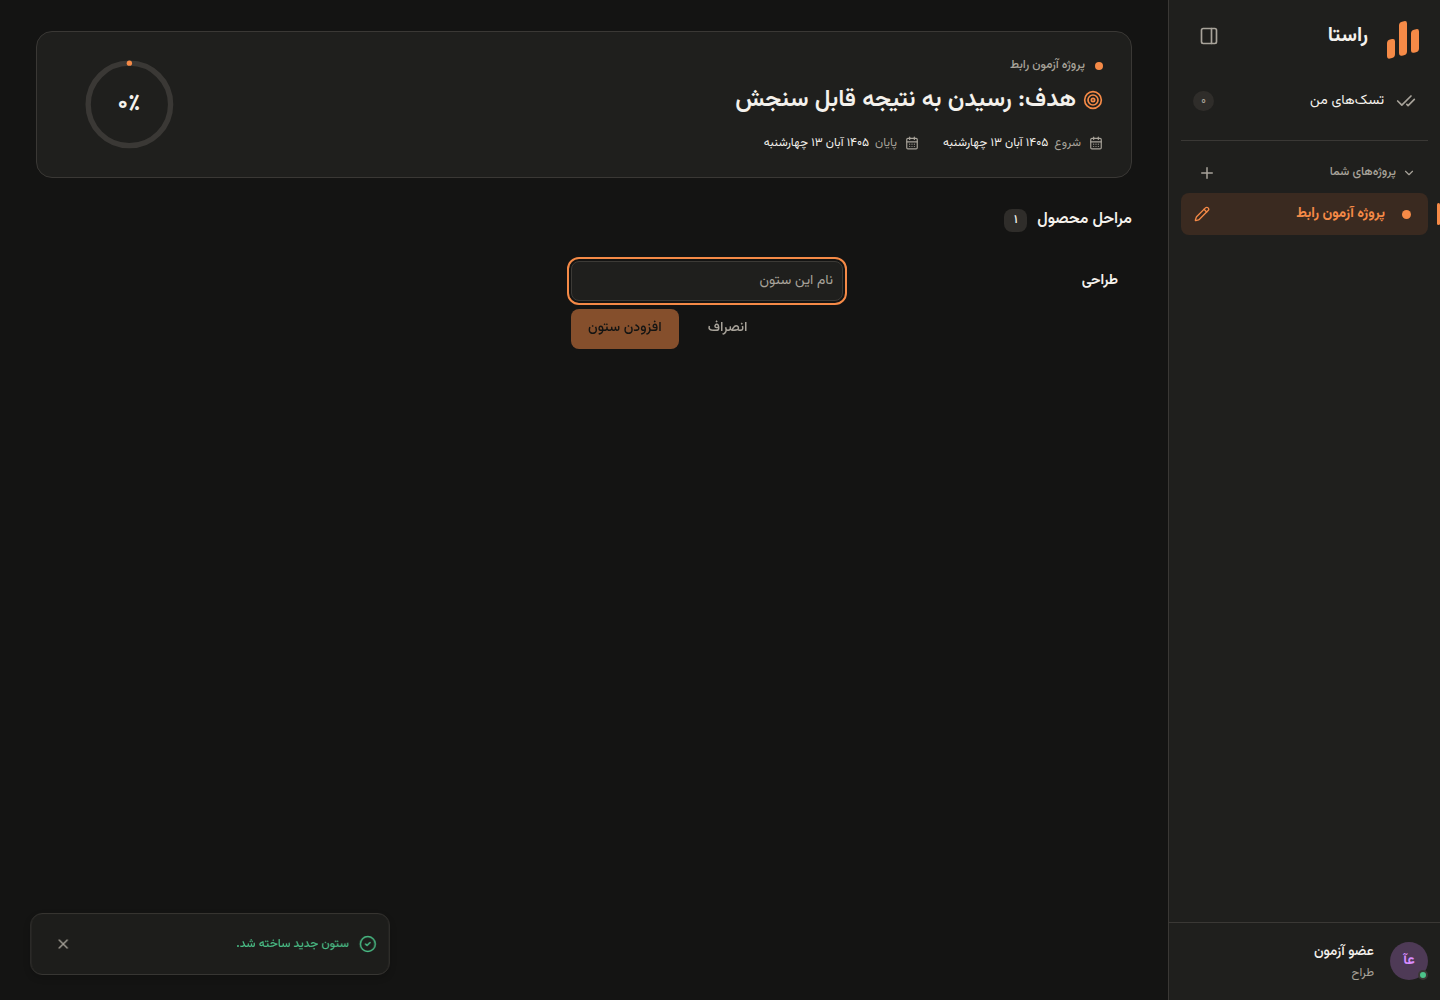
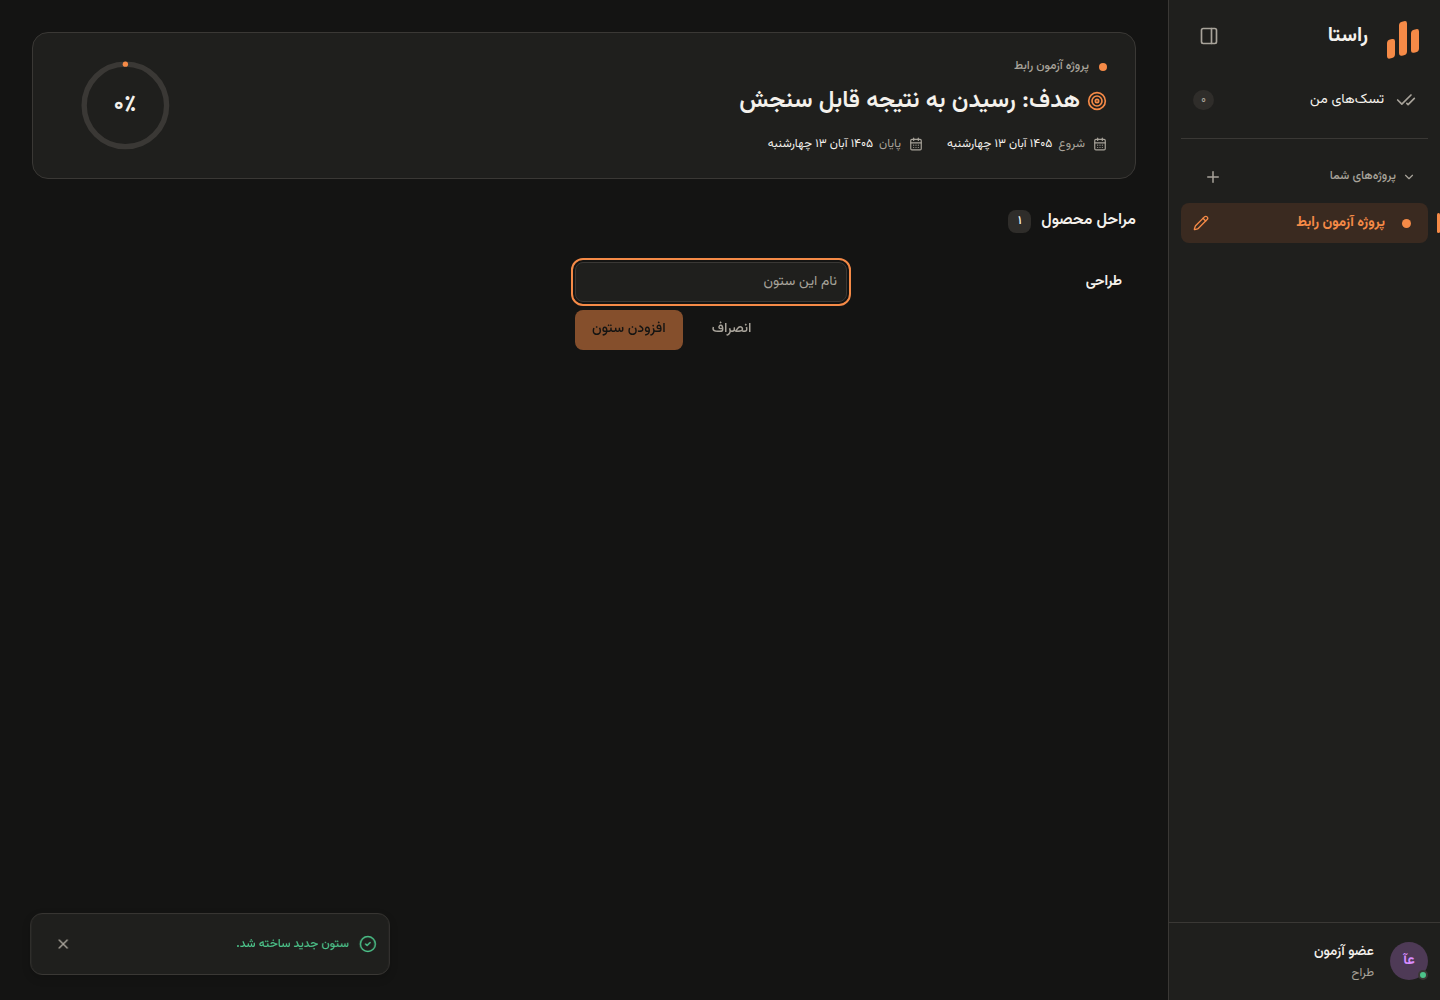
Align page spacing and control sizes.

diff --git a/resources/css/app.css b/resources/css/app.css
@@ -446,7 +446,7 @@ fieldset {
 }
 .search-wrap kbd {
     direction: ltr;
-    font: 10px var(--font);
+    font: var(--text-caption-size) var(--font);
     border: 1px solid var(--border-subtle);
     border-radius: var(--radius-control);
     padding: 0 5px;
@@ -499,7 +499,7 @@ fieldset {
 .content {
     max-width: 1550px;
     margin: 0 auto;
-    padding: 31px 36px 40px;
+    padding: var(--space-6);
     min-height: calc(100vh - 126px);
 }
 .page-heading {
@@ -507,7 +507,7 @@ fieldset {
     align-items: center;
     justify-content: space-between;
     gap: 20px;
-    margin-block-end: 27px;
+    margin-block-end: var(--space-5);
 }
 .page-heading .eyebrow {
     margin-block-end: 4px;
@@ -519,8 +519,9 @@ fieldset {
 }
 .page-heading p {
     color: var(--text-muted);
-    font-size: var(--text-caption-size);
-    margin-block-start: 3px;
+    font-size: var(--text-body-size);
+    line-height: var(--text-body-line);
+    margin-block-start: var(--space-1);
 }
 .hello-sun {
     margin-inline-start: 5px;
@@ -1125,11 +1126,11 @@ fieldset {
 .goal-card {
     display: flex;
     justify-content: space-between;
-    gap: 25px;
+    gap: var(--space-5);
     border: 1px solid var(--border-subtle);
     background: var(--surface-muted);
     border-radius: var(--radius-card);
-    padding: 26px 30px;
+    padding: var(--space-5) var(--space-6);
 }
 .goal-main {
     flex: 1;
@@ -1727,6 +1728,8 @@ fieldset {
 .empty-state p {
     max-width: 36em;
     color: var(--text-muted);
+    font-size: var(--text-body-size);
+    line-height: var(--text-body-line);
     text-align: center;
 }
 .empty-state > span svg {
@@ -1834,7 +1837,7 @@ fieldset {
     display: block;
     font-size: var(--text-caption-size);
     font-weight: 500;
-    margin-block-end: 17px;
+    margin-block-end: var(--space-4);
     color: var(--text-muted);
 }
 .modal-body input[type="checkbox"] {
@@ -2217,8 +2220,8 @@ fieldset {
     margin-top: 6px;
 }
 .comment-actions button {
-    min-height: 26px;
-    padding: 3px 7px;
+    min-height: 32px;
+    padding: var(--space-1) var(--space-2);
     border: 0;
     border-radius: var(--radius-control);
     background: transparent;
@@ -2696,7 +2699,7 @@ fieldset {
 }
 @media (min-width: 1500px) {
     .content {
-        padding-block-start: 37px;
+        padding-block-start: var(--space-6);
     }
     .welcome-banner {
         min-height: 265px;
@@ -2719,7 +2722,7 @@ fieldset {
         padding-inline: 25px;
     }
     .content {
-        padding: 25px;
+        padding: var(--space-5);
     }
     .project-grid {
         gap: 12px;
@@ -2842,7 +2845,7 @@ fieldset {
         display: none;
     }
     .content {
-        padding: 23px 16px;
+        padding: var(--space-4);
     }
     .page-heading {
         align-items: flex-start;
@@ -2854,7 +2857,7 @@ fieldset {
         font-size: var(--text-page-size);
     }
     .page-heading p {
-        font-size: var(--text-caption-size);
+        font-size: var(--text-body-size);
     }
     .date-chip {
         font-size: var(--text-caption-size);
@@ -5314,8 +5317,8 @@ input[type="color"]:focus-visible { border-color: var(--border-strong); box-shad
 
 /* Tasks page divider and column hover */
 .tasks-page > .page-heading {
-    padding-bottom: 22px;
-    margin-bottom: 24px;
+    padding-bottom: var(--space-4);
+    margin-bottom: var(--space-5);
     border-bottom: 1px solid var(--border-subtle);
 }
 .tasks-page .task-project-section .board-column {
@@ -6324,7 +6327,7 @@ select:disabled {
     background: var(--surface-muted);
 }
 .login-mode > button {
-    min-height: 38px;
+    min-height: var(--control-height);
     border-radius: var(--radius-control);
     color: var(--text-muted);
     font-size: var(--text-caption-size);
@@ -6600,7 +6603,7 @@ select:disabled {
 .settings-avatar-change {
     display: inline-flex;
     margin-block-start: 0;
-    min-height: 32px;
+    min-height: var(--control-height);
     padding: 0;
     color: var(--accent);
     font: inherit;
@@ -6625,9 +6628,9 @@ select:disabled {
 .settings-account-form input {
     display: block;
     width: 100%;
-    min-height: 46px;
-    margin-block-start: 6px;
-    padding: 8px 11px;
+    min-height: var(--control-height);
+    margin-block-start: var(--space-2);
+    padding: var(--space-2) var(--space-3);
     border: 1px solid var(--border-strong);
     border-radius: var(--radius-control);
     background: var(--surface-base);
@@ -6774,8 +6777,8 @@ select:disabled {
 }
 .settings-row-action {
     flex: 0 0 auto;
-    min-height: 44px;
-    padding: 6px 11px;
+    min-height: var(--control-height);
+    padding: var(--space-2) var(--space-3);
     font-size: var(--text-caption-size);
 }
 .settings-security-backdrop {
@@ -6834,9 +6837,9 @@ select:disabled {
 .settings-dialog-body input {
     display: block;
     width: 100%;
-    min-height: 42px;
-    margin-block-start: 6px;
-    padding: 8px 10px;
+    min-height: var(--control-height);
+    margin-block-start: var(--space-2);
+    padding: var(--space-2) var(--space-3);
     border: 1px solid var(--border-strong);
     border-radius: var(--radius-control);
     background: var(--surface-base);
@@ -7117,7 +7120,7 @@ select:disabled {
     align-items: center;
     gap: 12px;
     width: 100%;
-    height: 42px;
+    height: var(--control-height);
     padding: 0 12px;
     border: 0;
     border-radius: var(--radius-control);
@@ -7203,7 +7206,7 @@ select:disabled {
 .sidebar-section-heading {
     display: flex;
     align-items: center;
-    min-height: 28px;
+    min-height: var(--control-height);
     margin: 0 0 6px;
     padding: 0 12px;
 }
@@ -7240,8 +7243,8 @@ select:disabled {
     display: grid;
     flex: none;
     place-items: center;
-    width: 28px;
-    height: 28px;
+    width: var(--control-height);
+    height: var(--control-height);
     margin-inline-start: auto;
     padding: 0;
     border: 0;
@@ -7292,12 +7295,12 @@ select:disabled {
 }
 .sidebar-project-edit {
     position: absolute;
-    inset-inline-end: 5px;
+    inset-inline-end: 0;
     display: grid;
     flex: none;
     place-items: center;
-    width: 32px;
-    height: 32px;
+    width: var(--control-height);
+    height: var(--control-height);
     padding: 0;
     border: 0;
     border-radius: var(--radius-control);
